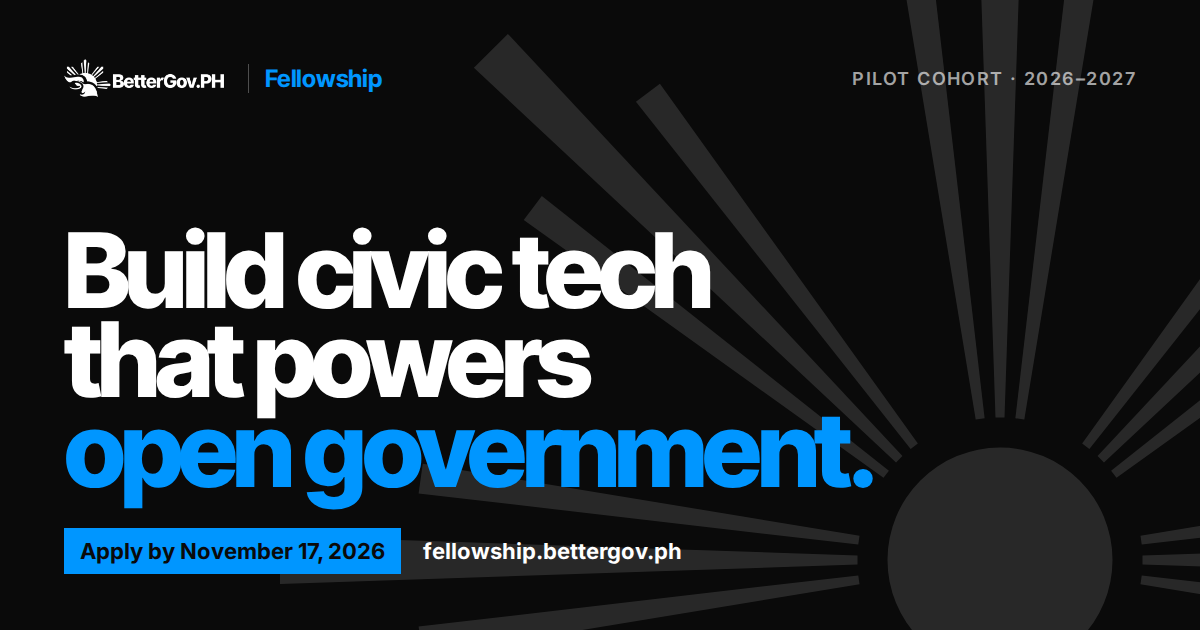
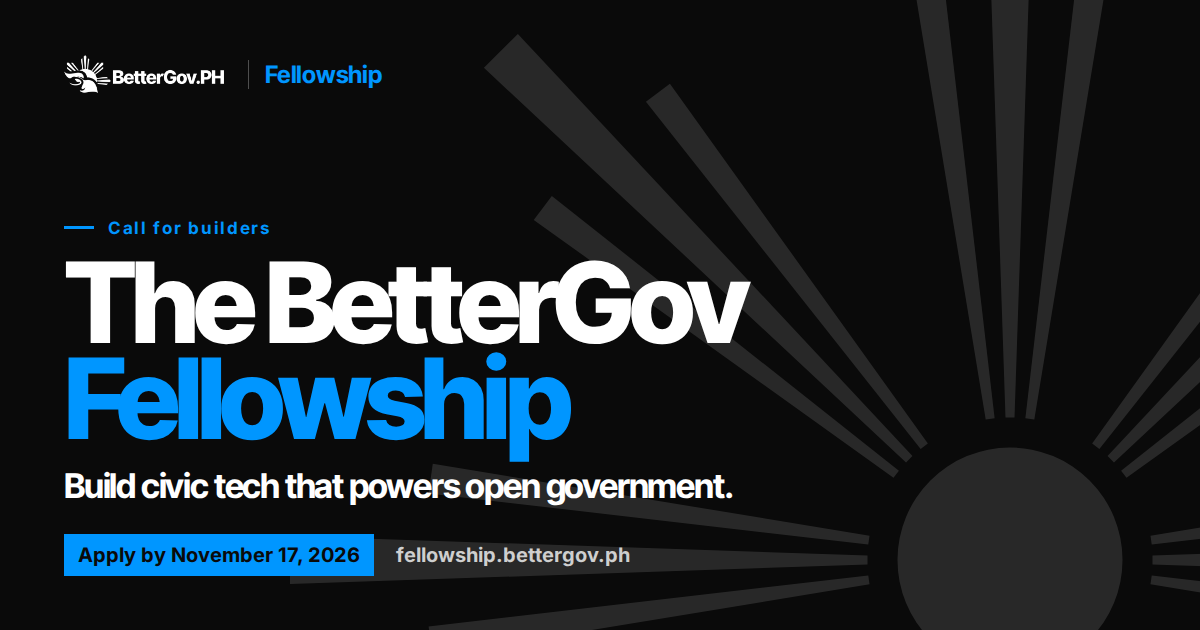
feat: update the share image to match the new hero
Renders The BetterGov Fellowship title and tagline from
scripts/og-image.html, versions the og:image URL so platforms fetch it
again, and describes the image in og:image:alt.

diff --git a/scripts/og-image.html b/scripts/og-image.html
@@ -1,0 +1,160 @@
+<!doctype html>
+<!--
+  Source for public/og-fellowship.png, the 1200 × 630 social share image.
+  It mirrors the hero. To regenerate after editing:
+
+    npx playwright screenshot --viewport-size "1200, 630" --wait-for-timeout 2000 \
+      scripts/og-image.html public/og-fellowship.png
+
+  Then bump the ?v= on ogImage in prerender.js so Facebook and others fetch it again.
+-->
+<html lang="en">
+  <head>
+    <meta charset="utf-8" />
+    <link
+      rel="stylesheet"
+      href="https://fonts.googleapis.com/css2?family=Inter:wght@400..900&family=Inter+Tight:wght@400..900&display=swap"
+    />
+    <style>
+      * {
+        box-sizing: border-box;
+        margin: 0;
+      }
+
+      body {
+        position: relative;
+        width: 1200px;
+        height: 630px;
+        overflow: hidden;
+        background: #0a0a0a;
+        color: #fff;
+        font-family: 'Inter', Arial, sans-serif;
+      }
+
+      .rays {
+        position: absolute;
+        top: 560px;
+        left: 1010px;
+        width: 1500px;
+        height: 1500px;
+        margin: -750px 0 0 -750px;
+        fill: #fff;
+        opacity: 0.12;
+      }
+
+      .card {
+        position: absolute;
+        inset: 0;
+        display: flex;
+        padding: 52px 64px 54px;
+        flex-direction: column;
+      }
+
+      .brand {
+        display: flex;
+        align-items: center;
+        gap: 16px;
+      }
+
+      .brand img {
+        height: 44px;
+        margin-left: -8px;
+      }
+
+      .brand b {
+        padding-left: 16px;
+        border-left: 1px solid rgb(255 255 255 / 28%);
+        color: #0096ff;
+        font: 700 24px 'Inter Tight';
+        letter-spacing: -0.01em;
+      }
+
+      .eyebrow {
+        display: flex;
+        margin-top: auto;
+        align-items: center;
+        gap: 14px;
+        color: #0096ff;
+        font-size: 17px;
+        font-weight: 700;
+        letter-spacing: 0.1em;
+      }
+
+      .eyebrow::before {
+        width: 30px;
+        height: 3px;
+        background: currentColor;
+        content: '';
+      }
+
+      h1 {
+        margin-top: 16px;
+        font: 800 112px / 0.86 'Inter Tight';
+        letter-spacing: -0.055em;
+      }
+
+      h1 span {
+        display: block;
+        color: #0096ff;
+      }
+
+      .tagline {
+        margin-top: 22px;
+        font: 700 34px / 1.05 'Inter Tight';
+        letter-spacing: -0.035em;
+      }
+
+      .foot {
+        display: flex;
+        margin-top: 30px;
+        align-items: center;
+        gap: 22px;
+        font-size: 20px;
+        font-weight: 700;
+      }
+
+      .tag {
+        padding: 9px 14px;
+        background: #0096ff;
+        color: #0a0a0a;
+      }
+
+      .foot span:last-child {
+        color: rgb(255 255 255 / 78%);
+      }
+    </style>
+  </head>
+  <body>
+    <svg class="rays" viewBox="-1000 -1000 2000 2000" aria-hidden="true"></svg>
+    <div class="card">
+      <div class="brand">
+        <img src="https://assets.bettergov.ph/logos/webp/horizontal-white.webp" alt="" />
+        <b>Fellowship</b>
+      </div>
+      <p class="eyebrow">Call for builders</p>
+      <h1>The BetterGov <span>Fellowship</span></h1>
+      <p class="tagline">Build civic tech that powers open government.</p>
+      <div class="foot">
+        <span class="tag">Apply by November 17, 2026</span>
+        <span>fellowship.bettergov.ph</span>
+      </div>
+    </div>
+    <script>
+      // The eight rays of the sun on the flag, three beams each, as on the site.
+      const beams = [
+        [0, 960, 64],
+        [-8, 780, 40],
+        [8, 780, 40],
+      ]
+      let rays = ''
+      for (let ray = 0; ray < 8; ray++) {
+        rays += `<g transform="rotate(${ray * 45})">`
+        for (const [angle, length, width] of beams) {
+          rays += `<polygon transform="rotate(${angle})" points="-6,-190 6,-190 ${width / 2},-${length} -${width / 2},-${length}"/>`
+        }
+        rays += '</g>'
+      }
+      document.querySelector('.rays').innerHTML = rays + '<circle r="150"/>'
+    </script>
+  </body>
+</html>

diff --git a/prerender.js b/prerender.js
@@ -13,7 +13,10 @@ const seo = {
     'A three-month civic technology fellowship for developers, designers, data specialists, and researchers. Build with government agencies and civil society for DBM COMPASS and Philippine open data. Applications close November 17, 2026.',
   keywords:
     'BetterGovPH Fellowship, civic tech fellowship Philippines, DBM COMPASS, open data, open government partnership, WeSolve Foundation, PH-OGP',
-  ogImage: `${origin}/og-fellowship.png`,
+  // Bump ?v= whenever the image changes so social platforms fetch it again.
+  ogImage: `${origin}/og-fellowship.png?v=2`,
+  ogImageAlt:
+    'The BetterGov Fellowship. Build civic tech that powers open government. Apply by November 17, 2026.',
 }
 
 const metaTags = `<!-- Primary Meta Tags -->
@@ -30,7 +33,7 @@ const metaTags = `<!-- Primary Meta Tags -->
     <meta property="og:image" content="${seo.ogImage}" />
     <meta property="og:image:width" content="1200" />
     <meta property="og:image:height" content="630" />
-    <meta property="og:image:alt" content="${seo.title}" />
+    <meta property="og:image:alt" content="${seo.ogImageAlt}" />
 
     <!-- Twitter -->
     <meta property="twitter:card" content="summary_large_image" />

diff --git a/README.md b/README.md
@@ -47,7 +47,7 @@ src/
 └── fellowship.css        # The slide design system
 public/
 ├── decks/                # Cover slides of each challenge's pitch deck
-└── og-fellowship.png     # Social share image
+└── og-fellowship.png     # Social share image, rendered from scripts/og-image.html
 ```
 
 ## Editing content
